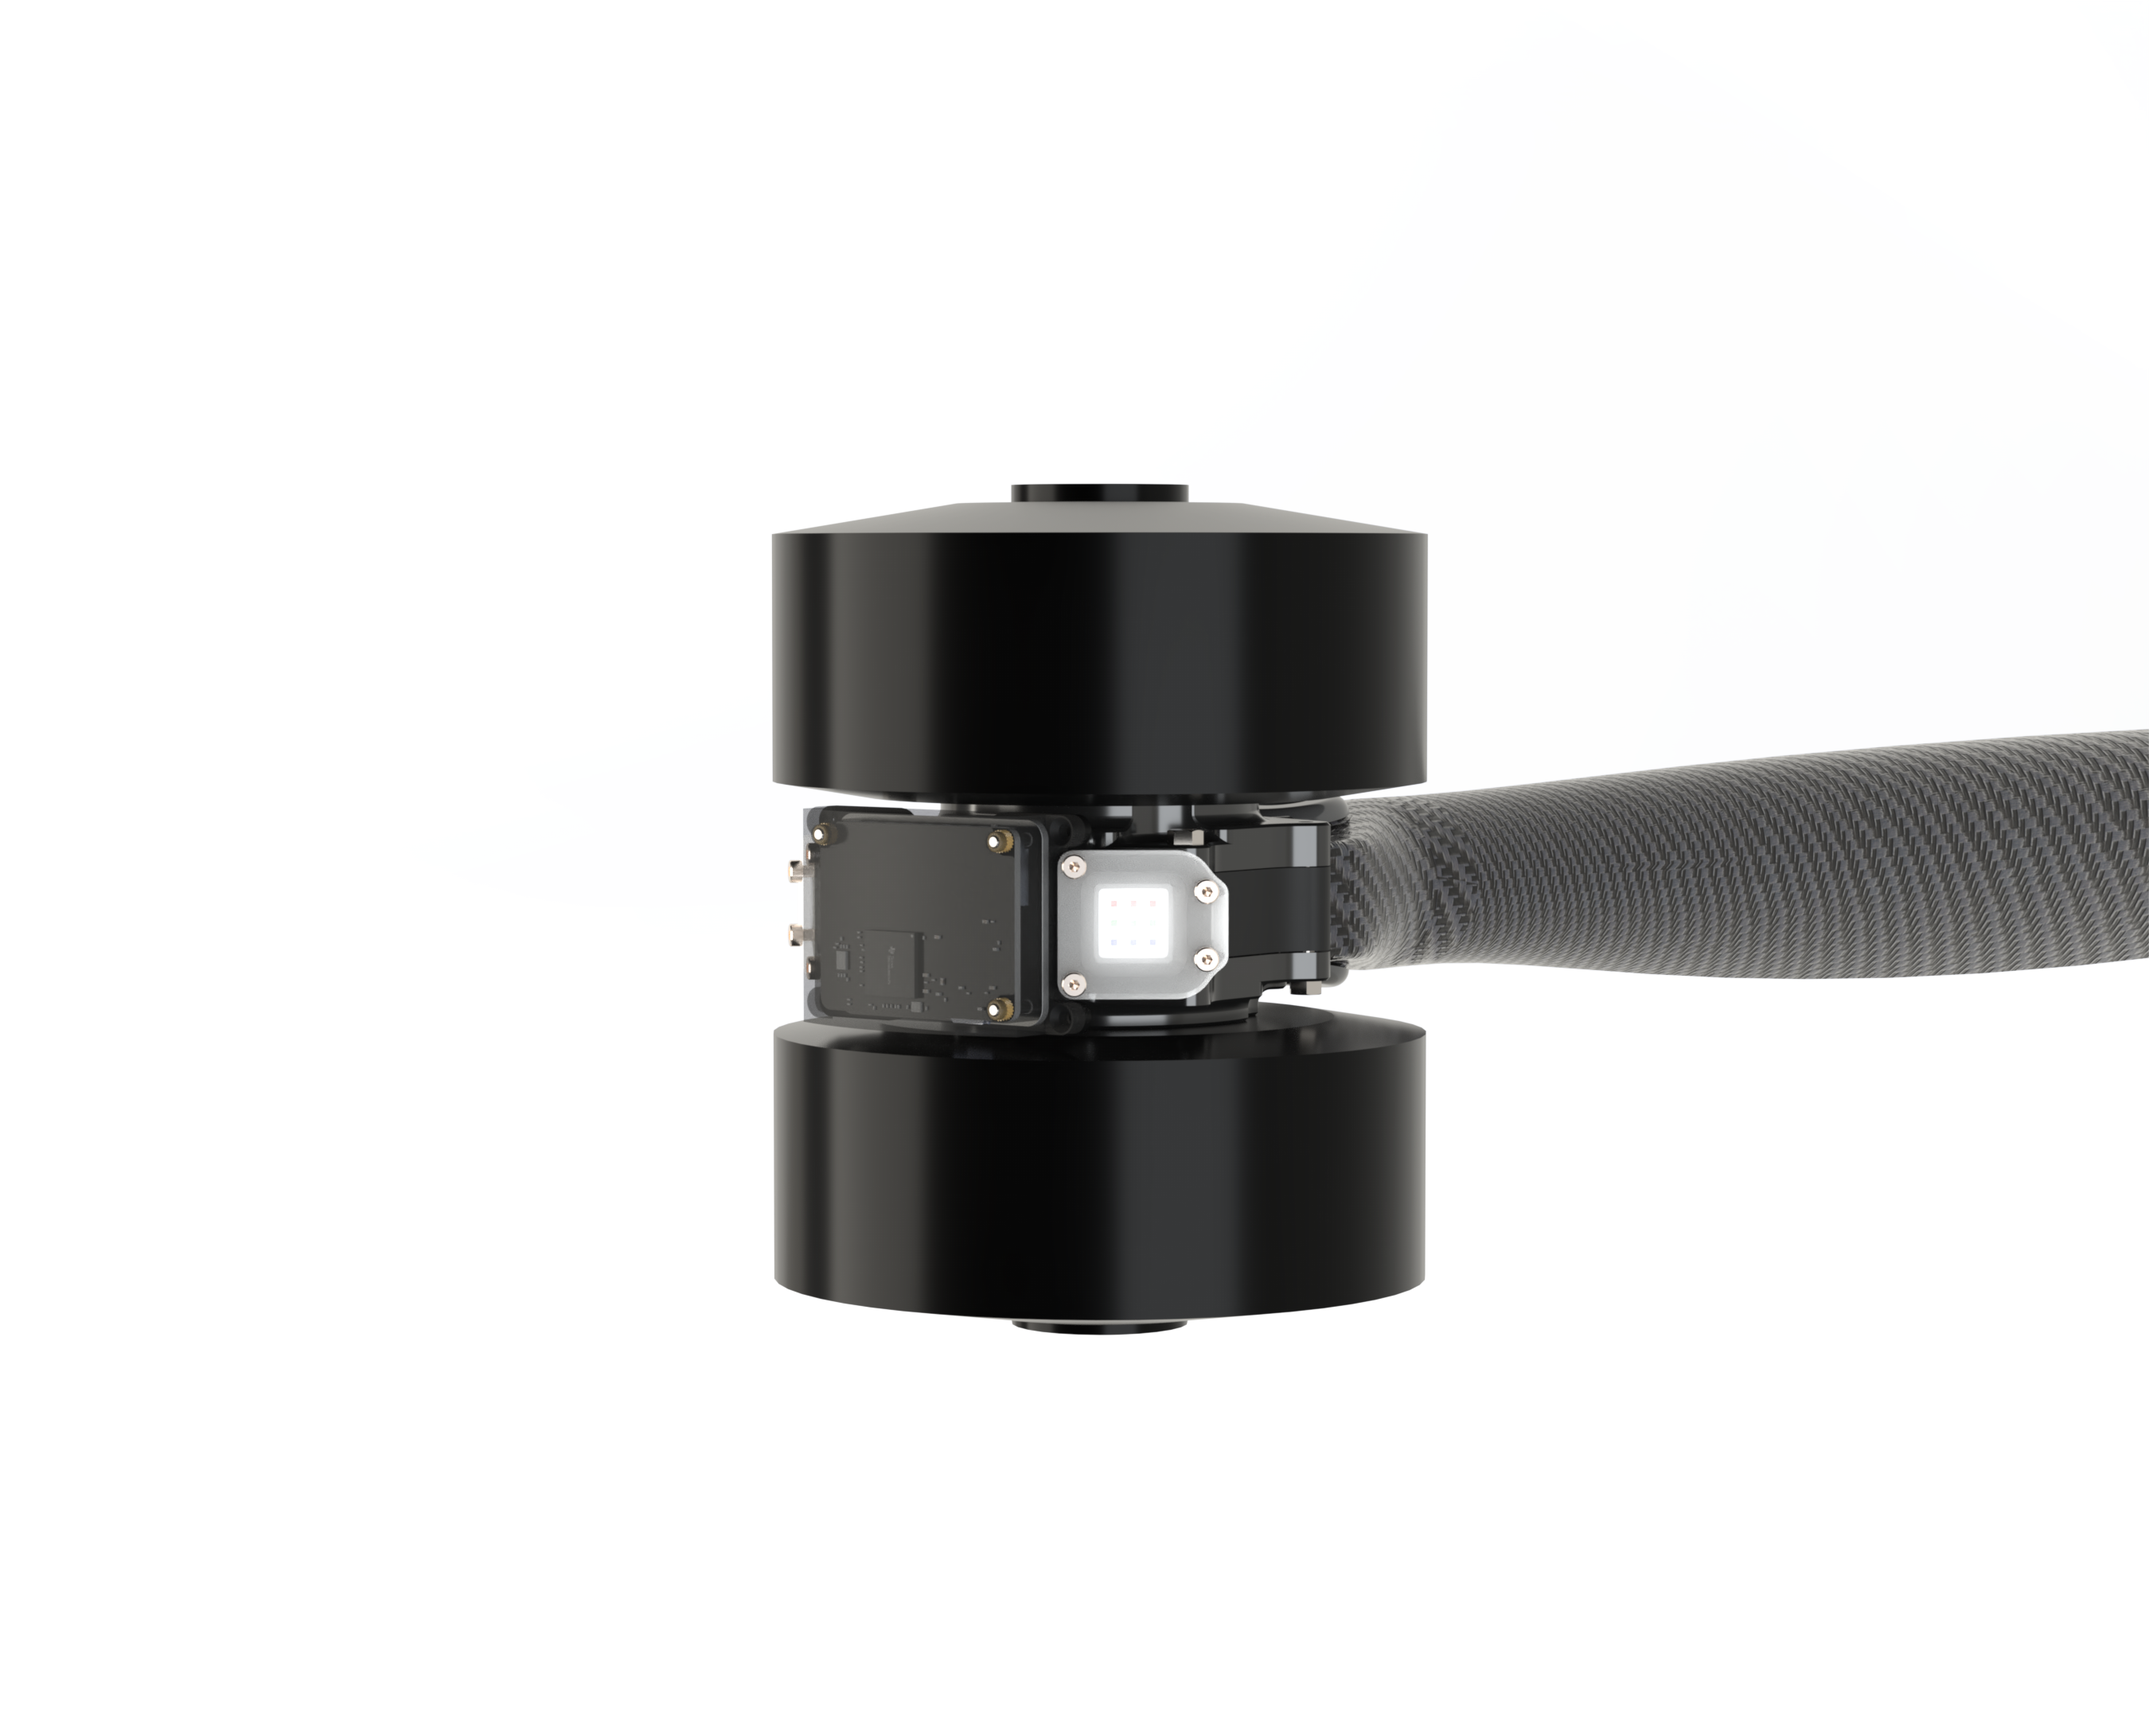
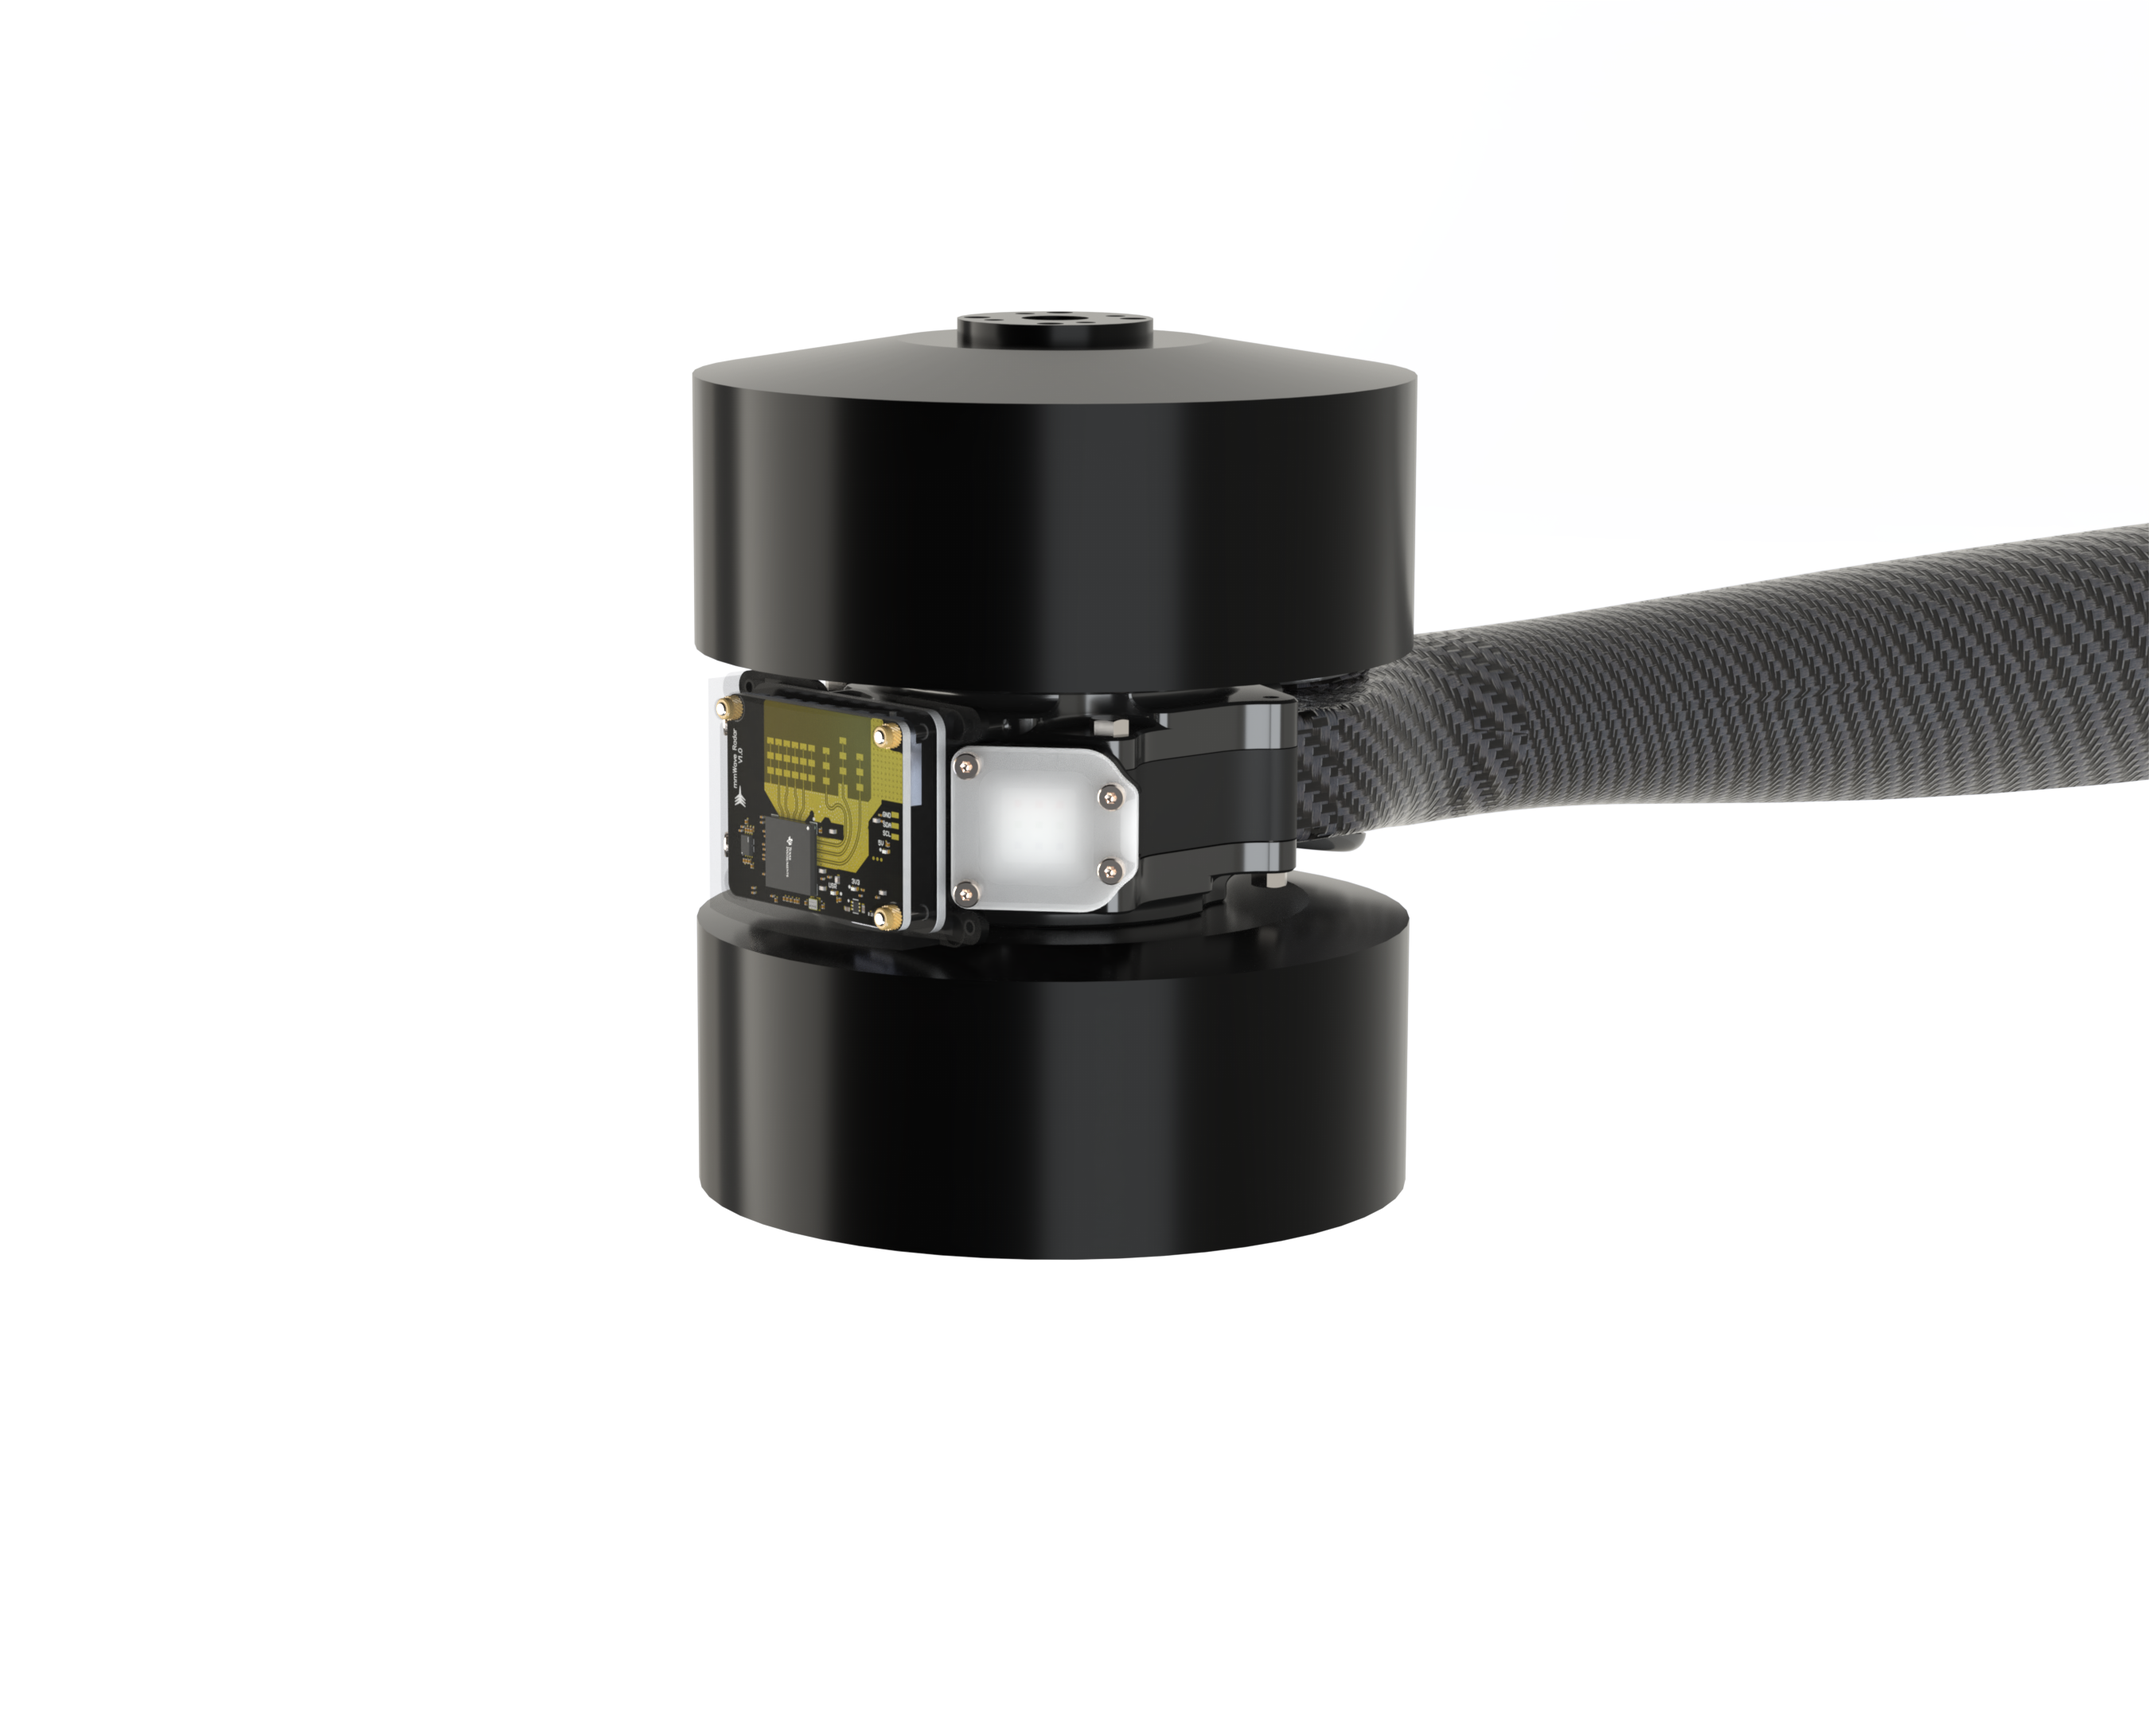
Added wifi weather station section. Replaced radar main photo

Changed region(s): [[0.3111, 0.1551, 1.0, 0.7755]]

diff --git a/index.html b/index.html
@@ -51,6 +51,14 @@
                     <p>Integrating a radar obstacle avoidance system to advance the safety and useability of drone platforms.</p>
                 </div>
             </div>
+            
+            <div class="project" onclick="openPopup('wifi-weather-station-popup')"">
+                <img src="images/wifi_weather_station.png" class="sw-visualise-image" alt="Wifi weather station">
+                <div class="project-overlay">
+                    <h3>Wifi Weather Station</h3>
+                    <p>A low power esp32 weather station project running off a small solar panel.</p>
+                </div>
+            </div>
         </section>
 
         <section id="contact">
@@ -182,7 +190,7 @@
     <div class="popup-content">
         <!-- Background Image -->
         <div class="popup-header">
-            <h2>Smart Battery Charging Case</h2>
+            <h2>Radar Obstacle Avoidance</h2>
         </div>
 
         <!-- Sections -->
@@ -226,5 +234,52 @@
     </div>
 </div>
 
+<div id="wifi-weather-station-popup" class="popup">
+    <div class="popup-content">
+        <!-- Background Image -->
+        <div class="popup-header">
+            <h2>Wifi Weather Station</h2>
+        </div>
+
+        <!-- Sections -->
+        <div class="popup-body">
+            <section class="popup-section">
+                <h3>The Demand</h3>
+                <p>Demand text</p>
+            </section>
+  
+            <section class="popup-section">
+                <h3>Challenge</h3>
+                <p>Challenge text</p>
+            </section>
+
+            <section class="popup-section">
+                <h3>Solution</h3>
+                <p>Solution text
+                </p>
+                <div class="xray-container sw-visualise-image">
+                    <img src="images/wifi_weather_station.png" alt="External View" class="external-image">
+                    <img src="images/wifi_weather_station_internals.png" alt="Internal View" class="internal-image">
+                    <div class="mask"></div>
+                </div>
+            </section>
+
+            <section class="popup-section">
+                <h3>My Contribution</h3>
+                <p>Contribution text</p>
+                </section>
+
+            <section class="popup-section">
+                <h3>Key Skills</h3>
+                <ul class="skills-list">
+                    <li>Altium PCB Design</li>
+                </ul>
+            </section>
+        </div>
+
+        <!-- Close Button -->
+        <button class="close-btn" onclick="closePopup('wifi-weather-station-popup')">Close</button>
+    </div>
+</div>
 <script src="script.js"></script>
 </html>

diff --git a/style.css b/style.css
@@ -242,8 +242,8 @@ a:hover {
 }
 
 .sw-visualise-image {
-    mask-image: linear-gradient(to bottom, rgba(0, 0, 0, 1) 70%, rgba(0, 0, 0, 0));
-    -webkit-mask-image: linear-gradient(to bottom, rgba(0, 0, 0, 1) 70%, rgba(0, 0, 0, 0));
+    mask-image: linear-gradient(to bottom, rgba(0, 0, 0, 1) 85%, rgba(0, 0, 0, 0));
+    -webkit-mask-image: linear-gradient(to bottom, rgba(0, 0, 0, 1) 85%, rgba(0, 0, 0, 0));
 }
 
 .xray-container {
